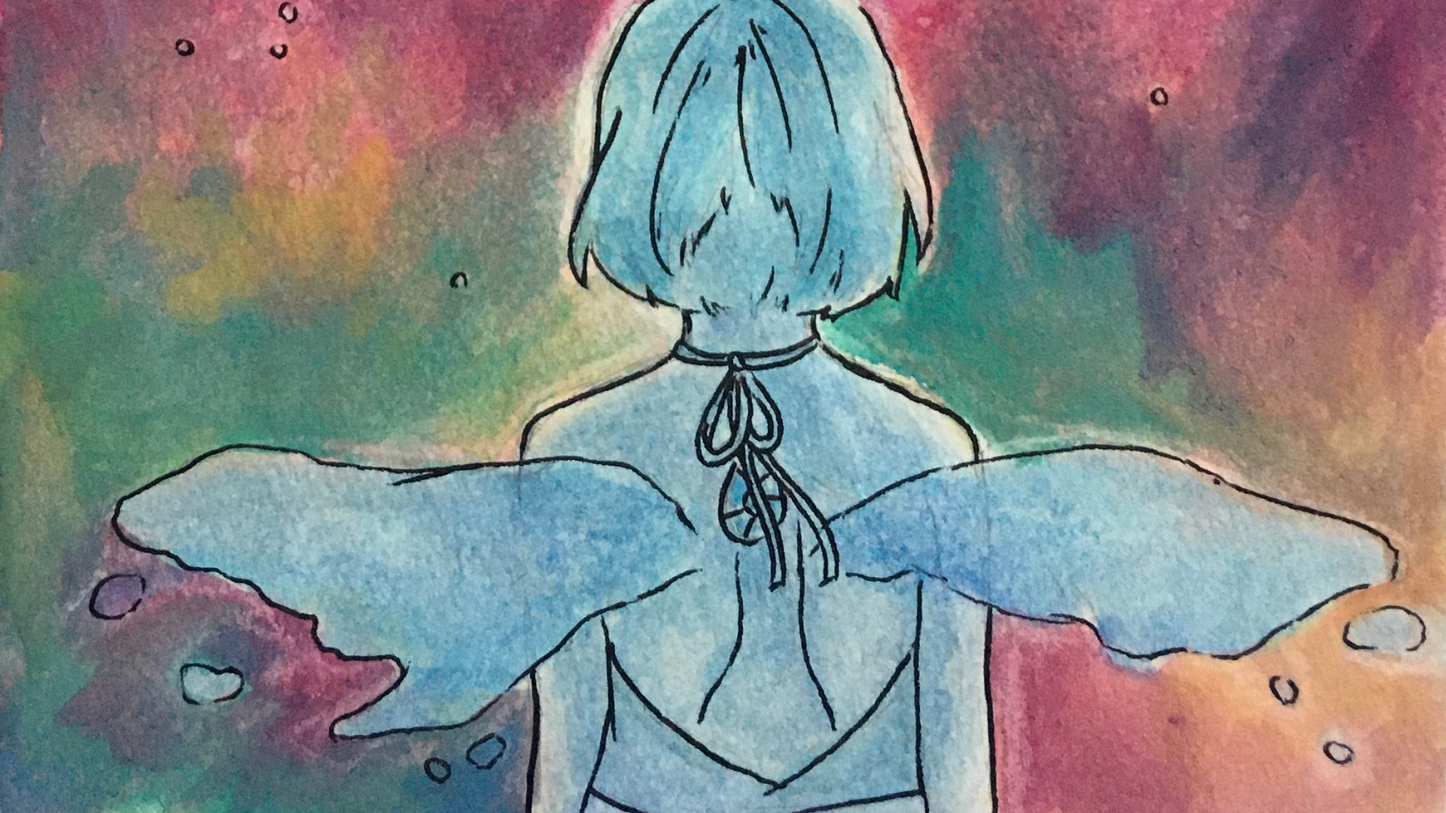
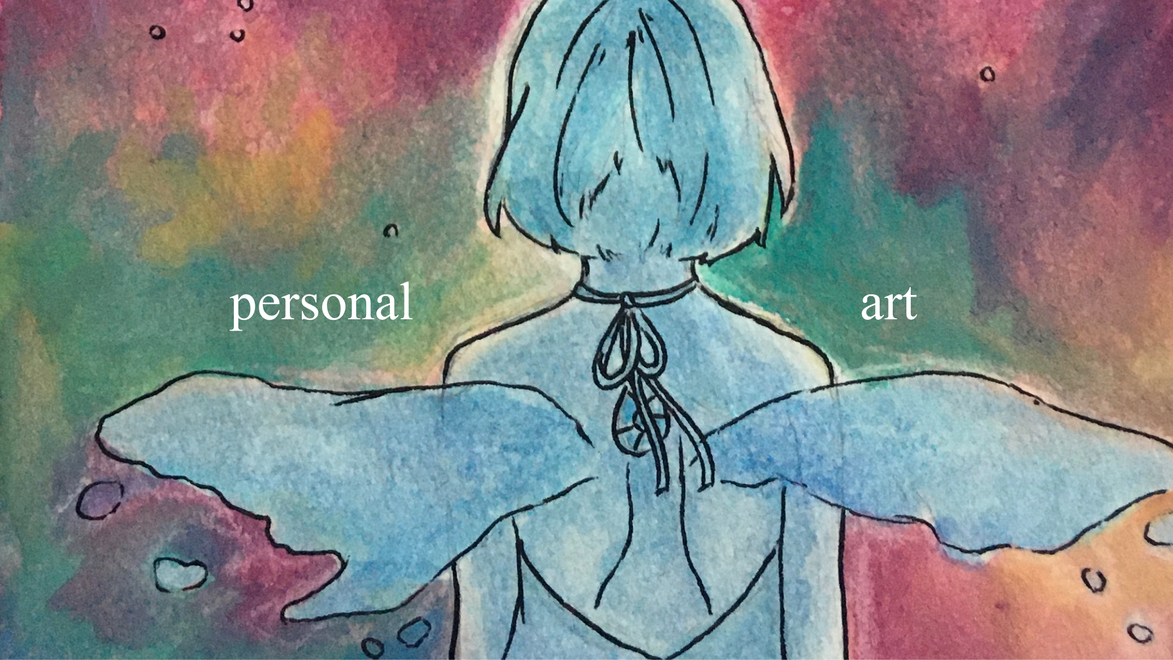
portfolio page intro + structure overhaul

diff --git a/html/portfolio.html b/html/portfolio.html
@@ -53,8 +53,10 @@
             <h2 class = "hello_text" class = "text_content">
                 <span>
                     <br><br>
-                    I'm Sissi, <br> a UI/UX and product designer <br>
-                    who is passionate <br>about accessibility.
+                    I'm Sissi, a UI/UX and product designer
+                    creating inclusive, user-friendly design.
+                    I'm committed to strategically driving positive impact for users and emerging organizations.
+
                 </span>
             </h2>
             <br>
@@ -101,7 +103,9 @@
                 
                     <div class = "project_description">
                         <h2>Utradea digital platform</h2>
-                        <p style="background-color: rgb(132, 207, 234)">UI/UX design</p>
+                        <p>redesigning the pricing page for <br> easier comparison of subscription plans.</p>
+                        <p class="tag" style="background-color: rgb(132, 207, 234)">UI/UX design</p>
+                        <p class="tag" style="background-color: rgb(247, 159, 219)">UX research</p>
                     </div>
                 </a>
             </div>
@@ -115,9 +119,10 @@
 
                     <div class = "project_description">
                         <h2>portfolio website</h2>
-                        <p style="background-color: rgb(132, 207, 234)">UI/UX design</p>
-                        <p style="background-color: rgb(247, 159, 219)">UX research</p>
-                        <p style="background-color: rgb(157, 181, 254)">coding</p>
+                        <p>creating this website from scratch, <br> from conception all the way to realization.</p>
+                        <p class="tag" style="background-color: rgb(132, 207, 234)">UI/UX design</p>
+                        <p class="tag" style="background-color: rgb(247, 159, 219)">UX research</p>
+                        <p class="tag" style="background-color: rgb(157, 181, 254)">coding</p>
                     </div>
                 </a>
             </div>
@@ -131,10 +136,11 @@
                     </div>
 
                     <div class = "project_description">
-                        <h2>Slow Burn Leather ecommerce</h2>
-                        <p style="background-color: rgb(132, 207, 234)">UI/UX design</p>
-                        <p style="background-color: rgb(247, 159, 219)">UX research</p>
-                        <p style="background-color: rgb(157, 181, 254)">coding</p>
+                        <h2>Slow Burn Leather</h2>
+                        <p>customizing an ecommerce website template to<br> elevate the business branding and consumer experience.</p>
+                        <p class="tag" style="background-color: rgb(132, 207, 234)">UI/UX design</p>
+                        <p class="tag" style="background-color: rgb(247, 159, 219)">UX research</p>
+                        <p class="tag" style="background-color: rgb(157, 181, 254)">coding</p>
                     </div>
                 </a>
             </div>
@@ -147,25 +153,22 @@
 
                     <div class = "project_description">
                         <h2>Morya Jewelry</h2>
-                        <p style="background-color: rgb(218,108,249)">product design</p>
-                        <p style="background-color: rgb(247, 159, 219)">UX research</p>
+                        <p>developing jewelry product designs<br> alongside product research.</p>
+                        <p class="tag" style="background-color: rgb(218,108,249)">product design</p>
+                        <p class="tag" style="background-color: rgb(247, 159, 219)">UX research</p>
                     </div>
                 </a>
             </div>
         </div>
 
-        <h2 class ="center_headers"><em>portfolio</em></h2>
+        <h2 class ="center_headers"style="margin-top: 2%;"><em>portfolio</em></h2>
 
-        <div class = "project_row">
+        <div class = "project_row" style="margin-bottom: 5%;">
             <!--graphic design-->
             <div class = "project_container" style="margin-top: 0%;">
                 <a href="/html/portfolio/graphic_design.html">
                     <div class = "project_thumbnail">
                         <img src="../media/projects/graphic_design/graphic_design_thumbnail.png" alt="rainbow flower pattern with a yellow background arranged next to a circular crane logo with yellow background and yellow and pink flowers">
-                    </div>
-
-                    <div class = "project_description">
-                        <h2>graphic design</h2>
                     </div>
                 </a>
             </div>
@@ -175,10 +178,6 @@
                 <a href="/html/portfolio/personal_art.html">
                     <div class = "project_thumbnail">
                         <img src="../media/projects/personal_art/personal_art_thumbnail.jpg" alt="watercolour painting of a girl with blue hair, skin, and wings made of water looking at rainbow coloured galaxy">
-                    </div>
-
-                    <div class = "project_description">
-                        <h2>personal art</h2>
                     </div>
                 </a>
             </div>

diff --git a/css/portfolio.css b/css/portfolio.css
@@ -16,13 +16,17 @@
     font-weight: bold;
     padding-left: 38%;
     position: absolute;
-    padding-top: 20%;
+    padding-top: 30%;
+    transform: rotate(-2deg);
 }
 .hello_text{
     padding-left: 14%;
-    padding-top: 22%;
+    padding-top: 40%;
     position: relative;
     text-align: left;
+    width: 90%;
+    box-sizing: border-box;
+    font-size: 1.2rem;
 }
 .hello_text span{
     background-color: rgb(95, 43, 118);
@@ -84,17 +88,17 @@
 }
 .project_container{
     /* background-color: rgba(7, 7, 7, 0.3); */
-    background-color: rgb(238, 196, 250);
+    /* background-color: rgb(238, 196, 250); */
+    background-color: rgb(255, 255, 255);
     width: 100%;
     /* height: 30%; */
     margin-top: 5%;
 }
 /*container for the thumbnail image*/
 .project_thumbnail{
-    width: 98%;
+    width: 100%;
     /* height: 60%; */
-    padding: 1%;
-    background-color: blueviolet;
+    background-color: rgb(255, 255, 255);
     display: flex;
     align-items: center;
     justify-content: center;
@@ -115,6 +119,9 @@
     text-align: center;
 }
 .project_description p{
+    margin-bottom: 10%;
+}
+.project_description .tag{
     font-size: 1rem;
     padding: 1%; /*changes "thickness" of highlighted text*/
     display: inline;
@@ -159,18 +166,20 @@
         padding-bottom: 1%;
     }
     #greeting{
-        padding-top: 6%;
-        padding-left: 30%;
+        padding-top: 7%;
+        padding-left: 38%;
         font-size: 5vw;
+        transform: rotate(0deg);
     }
     #hello_container{
         height: 230%;
         background-position: 0% 80%;
     }
     .hello_text{
-        padding-left: 30%;
-        padding-top: 6%;
-        width: 50%;
+        padding-left: 25%;
+        padding-top: 9%;
+        width: 76%;
+        font-size: 2.2vw;
     }
     #top_rect{
         float: left;
@@ -217,13 +226,18 @@
         margin-top: 3%;
     }
     .project_description{
-        padding:5%;
+        padding-top:2%;
     }
     .project_description h2{
+        margin-bottom: 1%;
         font-size: 1.6vw; /*same font size as paragraph text but semantic difference for styling*/
     }
     .project_description p{
-        font-size: 1.4vw;
+        margin-bottom: 5%;
+        font-size: 1.2vw;
+    }
+    .project_description .tag{
+        font-size: 1.2vw;
     }
     .projects{
         margin-bottom: 0%;
@@ -247,7 +261,6 @@
    }
    /*container for the thumbnail image*/
    .project_thumbnail{
-        width: 98%;
         min-height: 60%;
         max-height: 100%;
    }
